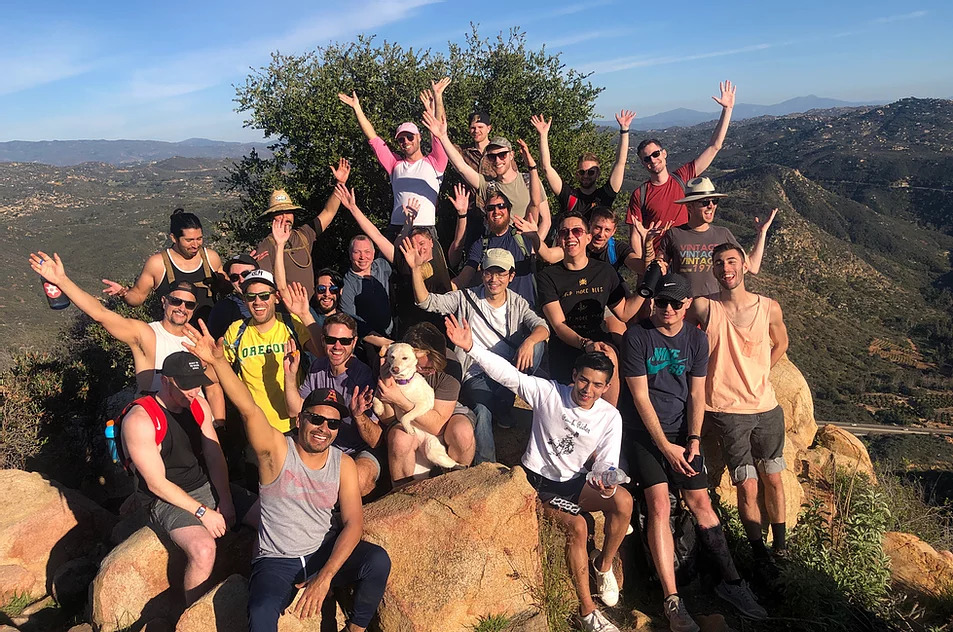
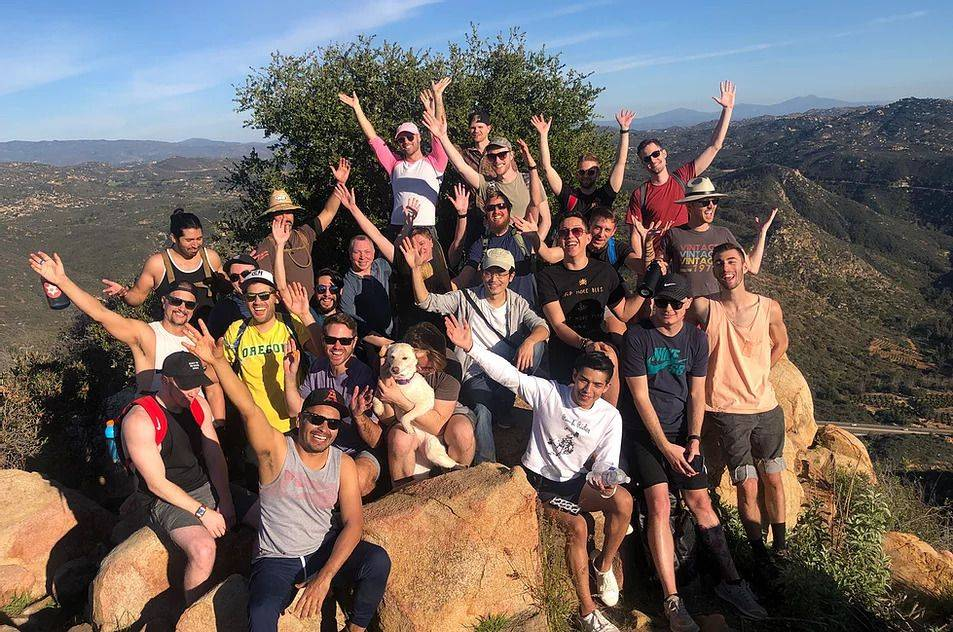
oprimzed jpg sizes

diff --git a/gatsby-config.js b/gatsby-config.js
@@ -47,7 +47,7 @@ module.exports = {
         printRejected: true, // Print removed selectors and processed file names
         develop: true, // Enable while using `gatsby develop`
         // tailwind: true, // Enable tailwindcss support
-        whitelist: ['body.is-preload *',' body.is-preload *:before',' body.is-preload *:after','NoDesktop', 'NoMobile'], // Don't remove this selector
+        whitelist: ['body.is-preload *',' body.is-preload *:before',' body.is-preload *:after','NoDesktop', 'NoMobile', 'bg-white', 'bg-lbrown', 'bg-dbrown',], // Don't remove this selector
          whitelistPatterns: [/btn/, /container/, /row/, /col/, /card/, /body/, /form/, /input/, /NoDesktop/, /is-preload/, /nav/, /navbar/  ],
          ignore: ['/Section.scss', '/footer.module.css', 'layout.css' ], // Ignore files/folders
         // purgeOnly : ['bootstrap/'], // Purge only these files/folders
